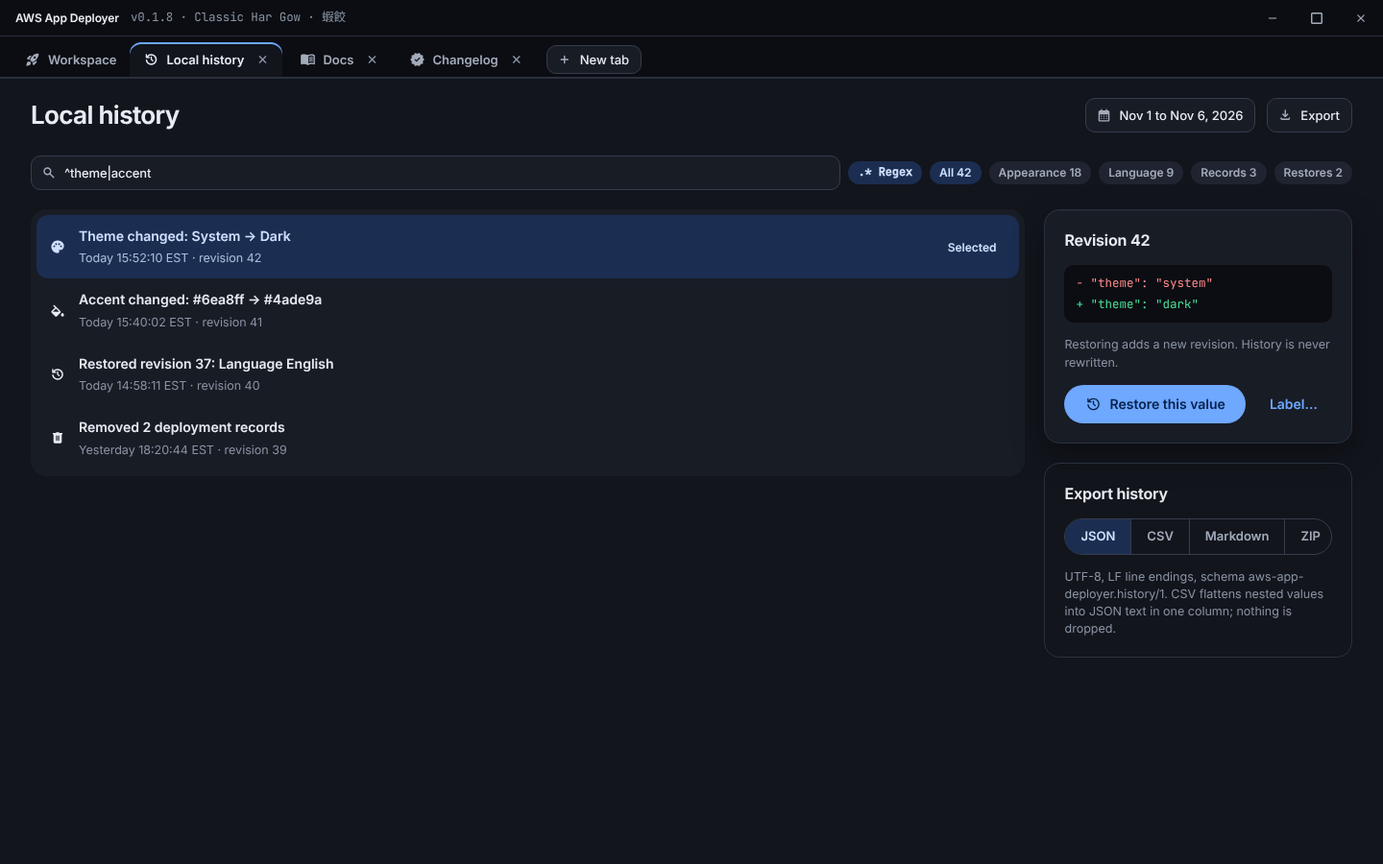
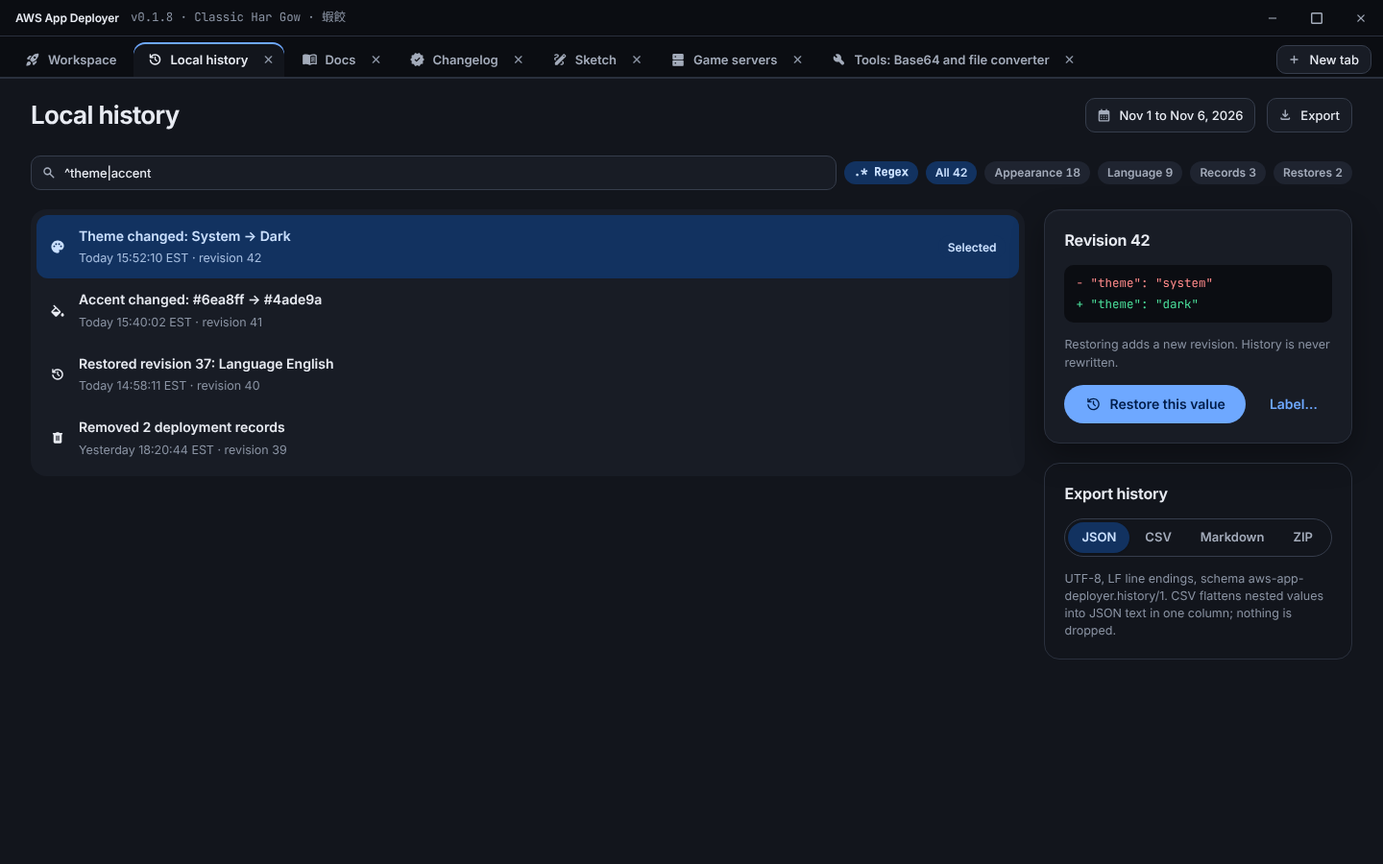
Stop entrance animations replaying on every key press
Every render rebuilds the DOM, and a rebuilt element starts its CSS
animations again, so the command palette faded and slid in again on each
arrow key and letter, and page headings and cards rose again while you
typed in a search box. render() now carries each animation's progress
over to the element in the same place in the new DOM: page content
within the same tab and view, floating layers and window chrome across
views. Opening something or navigating still plays its entrance.

scripts/sweep/motion.cjs (npm run sweep:motion) launches the app and
fails on any replay; with the fix switched off it reports the palette,
the page and the rail pill replaying, and with it on it passes.

Also: the boards for tabs (18) and polish (25) match the app, fresh
interface captures with provenance under docs/evidence/interface are
shown in the readme, and the roadmap, handoff and feature audit record
the sweep result and what is still open.

以前每撳一個掣，成個畫面重新砌過，啲入場動畫就由頭再嚟：搜尋框打一隻
字，指令面板又飄入一次，標題同卡片又升一次。而家重砌之後動畫照住原本
進度行落去，打開或者轉頁先會再播。另外加咗動畫檢查，關咗修正佢會紅，
開返就綠。

Claude-Session: https://claude.ai/code/session_019bdmMGPyKVwNhSr6Siu6GJ

diff --git a/design/artboards/Records.dc.html b/design/artboards/Records.dc.html
@@ -12,23 +12,33 @@
 <link rel="stylesheet" href="https://fonts.googleapis.com/css2?family=Inter:wght@400..700&amp;family=JetBrains+Mono:wght@400;500&amp;family=Material+Symbols+Rounded:opsz,wght,FILL,GRAD@20..48,300..600,0..1,0&amp;display=block">
 <style>
 body{margin:0}
-.tabs{display:flex;align-items:flex-end;gap:4px;padding:6px 12px 0;overflow-x:auto;background:var(--bg);border-bottom:1px solid var(--line)}
-.tab{flex:none;display:flex;align-items:center;gap:8px;height:36px;padding:0 10px 0 14px;border-radius:12px 12px 0 0;color:var(--tx2);font-size:13px;font-weight:600}
+.tabbar{display:flex;align-items:flex-end;background:var(--bg);border-bottom:1px solid var(--line);min-width:0}
+.tabs{display:flex;align-items:flex-end;gap:4px;padding:6px 4px 0 12px;overflow-x:auto;flex:1 1 auto;min-width:0;scrollbar-width:none}
+@media (max-width:720px){.tabs{mask-image:linear-gradient(to left,transparent,#000 32px)}}
+.tab{flex:none;display:flex;align-items:center;gap:2px;height:36px;padding:0 6px 0 0;border-radius:12px 12px 0 0;color:var(--tx2);font-size:13px;font-weight:600}
+.tab .tb{display:flex;align-items:center;gap:8px;height:36px;padding:0 8px 0 14px}
 .tab.on{background:var(--s1);color:var(--tx);box-shadow:inset 0 2px 0 var(--ac)}
 .tab .x{width:22px;height:22px;border-radius:11px;display:grid;place-items:center;color:var(--tx3)}
+.tab-new{flex:none;display:flex;align-items:flex-end;padding:0 12px 3px 6px}
+
 .diff{font-family:"JetBrains Mono",monospace;font-size:12.5px;border-radius:10px;padding:10px 12px;background:var(--bg);display:flex;flex-direction:column;gap:4px}
 .diff .m{color:var(--err)} .diff .p{color:var(--ok)}
 </style>
 </helmet>
 <div class="app {{themeClass}}">
   <div class="titlebar"><span class="name">AWS App Deployer</span><span class="small mono">v0.1.8 · Classic Har Gow · 蝦餃</span><span class="grow"></span><div class="caption"><span><i class="ms">remove</i></span><span><i class="ms">crop_square</i></span><span><i class="ms">close</i></span></div></div>
-  <div class="tabs" role="tablist" aria-label="Open tabs">
-    <span class="tab" role="tab"><i class="ms sm" aria-hidden="true">rocket_launch</i>Workspace</span>
-    <span class="tab on" role="tab" aria-selected="true"><i class="ms sm" aria-hidden="true">history</i>Local history<span class="x"><i class="ms sm" aria-hidden="true">close</i></span></span>
-    <span class="tab" role="tab"><i class="ms sm" aria-hidden="true">menu_book</i>Docs<span class="x"><i class="ms sm" aria-hidden="true">close</i></span></span>
-    <span class="tab" role="tab"><i class="ms sm" aria-hidden="true">new_releases</i>Changelog<span class="x"><i class="ms sm" aria-hidden="true">close</i></span></span>
-    <span class="chip" style="height: 30px; margin: 0 0 3px 6px"><i class="ms sm" aria-hidden="true">add</i>New tab</span>
-  </div>
+  <nav class="tabbar" aria-label="Tabs">
+    <div class="tabs" role="tablist" aria-label="Open tabs">
+      <span class="tab"><span class="tb" role="tab" aria-selected="false"><i class="ms sm" aria-hidden="true">rocket_launch</i>Workspace</span></span>
+      <span class="tab on"><span class="tb" role="tab" aria-selected="true"><i class="ms sm" aria-hidden="true">history</i>Local history</span><span class="x" aria-hidden="true"><i class="ms sm">close</i></span></span>
+      <span class="tab"><span class="tb" role="tab" aria-selected="false"><i class="ms sm" aria-hidden="true">menu_book</i>Docs</span><span class="x" aria-hidden="true"><i class="ms sm">close</i></span></span>
+      <span class="tab"><span class="tb" role="tab" aria-selected="false"><i class="ms sm" aria-hidden="true">new_releases</i>Changelog</span><span class="x" aria-hidden="true"><i class="ms sm">close</i></span></span>
+      <span class="tab"><span class="tb" role="tab" aria-selected="false"><i class="ms sm" aria-hidden="true">draw</i>Sketch</span><span class="x" aria-hidden="true"><i class="ms sm">close</i></span></span>
+      <span class="tab"><span class="tb" role="tab" aria-selected="false"><i class="ms sm" aria-hidden="true">dns</i>Game servers</span><span class="x" aria-hidden="true"><i class="ms sm">close</i></span></span>
+      <span class="tab"><span class="tb" role="tab" aria-selected="false"><i class="ms sm" aria-hidden="true">build</i>Tools: Base64 and file converter</span><span class="x" aria-hidden="true"><i class="ms sm">close</i></span></span>
+    </div>
+    <span class="tab-new"><span class="chip" style="height: 30px"><i class="ms sm" aria-hidden="true">add</i>New tab</span></span>
+  </nav>
   <div class="body">
     <main class="main" style="border-radius: 0; border-left: 0">
       <header class="topbar"><h1 class="rise">Local history</h1><span class="grow"></span><span class="chip"><i class="ms sm" aria-hidden="true">calendar_month</i>Nov 1 to Nov 6, 2026</span><span class="chip"><i class="ms sm" aria-hidden="true">download</i>Export</span></header>

diff --git a/src/renderer/app.js b/src/renderer/app.js
@@ -1322,13 +1322,44 @@
     const walker = document.createTreeWalker(node, NodeFilter.SHOW_TEXT, { acceptNode: n => (n.parentElement.closest('.ms, .mono, input, textarea, script, style') ? NodeFilter.FILTER_REJECT : NodeFilter.FILTER_ACCEPT) });
     for (let n; (n = walker.nextNode());) { const next = Lib.applyVocabulary(n.nodeValue, v); if (next !== n.nodeValue) n.nodeValue = next; }
   }
+  // Every render rebuilds the DOM, and a rebuilt element starts its CSS animations again, so entrance motion
+  // (rise, fade, dialog and panel entrances, log lines, the rail pill) replayed on every key press. Each animation
+  // carries its progress over to the element in the same place in the new DOM. Page content is matched only
+  // within the same tab and view, so navigating still plays the entrance; floating layers and the window chrome
+  // are matched across views. A new element has nothing to match and animates in as usual.
+  const LAYERS = '.overlay, .panel, .drawer, .dimsum, .party, .banner, .titlebar, .tabbar, .rail';
+  function placeOf(el) {
+    const parts = [];
+    for (let n = el; n && n !== root; n = n.parentElement) {
+      let i = 0; for (let s = n.previousElementSibling; s; s = s.previousElementSibling) if (s.tagName === n.tagName) i++;
+      parts.push(n.id ? '#' + n.id : n.dataset?.panel ? '[' + n.dataset.panel + ']' : n.tagName + i + '.' + (n.classList[0] || ''));
+    }
+    return parts.reverse().join('/');
+  }
+  function animKey(a, view) {
+    const el = a.effect?.target; if (!el || !root.contains(el)) return null;
+    return (el.closest(LAYERS) ? 'layer' : view) + '|' + a.animationName + '|' + (a.effect.pseudoElement || '') + '|' + placeOf(el);
+  }
+  const cssAnims = () => (document.getAnimations ? document.getAnimations() : []).filter(a => typeof CSSAnimation !== 'undefined' && a instanceof CSSAnimation);
+  let animView = null;
+  function animSnapshot(view) {
+    const was = animView, m = new Map(); animView = view;
+    for (const a of cssAnims()) { const k = animKey(a, was); if (k && a.currentTime != null) m.set(k, a.currentTime); }
+    return { view, m };
+  }
+  function animRestore({ view, m }) {
+    if (!m.size) return;
+    for (const a of cssAnims()) { const k = animKey(a, view); if (k && m.has(k)) a.currentTime = m.get(k); }
+  }
   function render() {
     if (!S.settings || (browser && !api.authenticated)) return;
     const focusId = document.activeElement?.id, caret = document.activeElement?.selectionStart, tabsLeft = root.querySelector('.tabs')?.scrollLeft || 0;
     const views = { setup: viewSetup, accounts: viewAccounts, deploys: viewDeploys, wizard: viewWizard, run: viewRun, result: viewResult, settings: viewSettings, help: viewHelp, history: viewHistory, changelog: viewChangelog, docs: viewDocs, support: viewSupport, tools: viewTools, servers: viewServers, ai: viewAi, sketch: viewSketch };
     const tab = S.tabs.find(t => t.id === S.active) || S.tabs[0];
     const v = tab.id === 'ws' ? S.view : tab.view;
+    const motion = animSnapshot(tab.id + ':' + v);
     root.innerHTML = shell((views[v] || viewDeploys)(), { rail: v !== 'setup' }) + paletteHtml() + panelHtml() + dimsumHtml() + partyHtml();
+    animRestore(motion);
     Kit.watchPanels(root, (id, box) => { const ui = S.settings.ui || { filtersOpen: {}, panels: {} }; api.setSetting('ui', { ...ui, panels: { ...ui.panels, [id]: box } }).then(r => r.ok && (S.settings.ui = r.value)); });
     if (S.view === 'settings' && S.settingsQuery) { const q = S.settingsQuery.toLowerCase(); root.querySelectorAll('[data-search]').forEach(el => { el.hidden = !el.dataset.search.toLowerCase().includes(q); }); }
     vocabularize(root);

diff --git a/design/artboards/Polish.dc.html b/design/artboards/Polish.dc.html
@@ -64,7 +64,7 @@ body{margin:0}
             <div class="demo-toast"><i class="ms sm fill">check_circle</i><span style="flex: 1">Sorted! Settings saved.</span></div>
           </div>
           <div class="side">
-            <div class="stack" style="gap: 8px"><span class="label">RIGHT-CLICK MENU WITH LIVE CONTROLS</span>
+            <div class="stack" style="gap: 8px"><span class="label">RIGHT-CLICK MENU WITH LIVE CONTROLS</span><span class="small">One highlighted row: the pointer moves it, the arrow keys move it, so hover never marks a second row.</span>
               <div class="ctx demo-menu" role="dialog" aria-label="Actions for Theme">
                 <div class="row ctx-f"><i class="ms sm" aria-hidden="true">filter_list</i><input class="mono" role="combobox" aria-expanded="true" aria-controls="demo-list" aria-activedescendant="demo-o0" placeholder="Filter" aria-label="Filter actions"><span class="badge mute mono">.*</span></div>
                 <div class="divider"></div>

diff --git a/docs/FEATURE-AUDIT.md b/docs/FEATURE-AUDIT.md
@@ -45,7 +45,7 @@ Evidence namespaces: **Baseline** means the original commit; **Desktop delta** m
 | `rich-controls` | Partial | App/site | Settings have controls, but palette results and other values lack shared rich-control bindings and coverage inventory. |
 | `guided-forms` | Partial | App/site | Baseline deployment wizard plus Interaction delta settings explanations/practice steps exist. Every-element contextual wizard, shared direct-action validation, control complexity inventory and textbox clear controls remain incomplete. |
 | `extension-support` | Missing | App | Added to the shared feature list on 2026-11-06: extension points tailored to deploying (targets and checks), a versioned manifest per extension folder, an out-of-process protocol, declared permissions with consent on first use and on change, run and answer limits, a manager, built-in defaults, an author article with samples, and proof. None of it exists yet. |
-| `every-surface-sweep` | Partial | App/site | scripts/sweep runs axe-core WCAG 2.2 AA and best-practice rules, console and blocked-content checks, clipped, off-screen and overlapping text, and a keyboard walk over every capture route of the app and every overlay of the landing page, at phone, tablet, 960 x 540 and desktop sizes, in both themes and all three languages. Not yet wired as a release check in the Windows workflow; results and the before and after score are in design/REHEARSAL.md. |
+| `every-surface-sweep` | Partial | App/site | scripts/sweep runs axe-core WCAG 2.2 AA and best-practice rules, console and blocked-content checks, clipped, off-screen and overlapping text, and a keyboard walk over every capture route of the app and every overlay of the landing page, at phone, tablet, 960 x 540 and desktop sizes, in both themes and all three languages. Run before each interface release; on 2026-11-06 it went from 13863 findings on v0.1.23 to zero (app 672 of 672 surfaces clean, landing page 138 of 138), with the score on design board 26 and in design/REHEARSAL.md. Missing: the browser companion's access screen is not in the script (checked by hand: clean apart from one browser log line for the expected 401 before sign-in), and the release workflow does not run the sweep. |
 | `windows-title-bar` | Partial | App | The frameless window now uses the platform title-bar overlay, so Windows draws its own caption buttons and Snap layouts work; overlay colours follow the theme through a validated IPC call; the bar is a drag region with clickable parts opted out. Not yet checked on a real Windows desktop (release captures do not include native caption buttons). |
 | `info-icon-guidance` | Partial | App/site | Every settings control now has its info button directly above it in one slot, with a 44 px touch target, a hover and focus tooltip, focus return to the exact button, Lib.EXPLAIN text and a practice step (pitch added). Missing: info buttons outside Settings (wizard, tools, servers, AI, sketch), the landing page's controls, Cantonese guidance text, worked examples with a playground per control, and direct/wizard parity proof. |
 | `settings-explanations` | Partial | App/site | Interaction delta: store exposes defaults/sources; info panels state file/default provenance, with SETTINGS_ON_SCREEN/EXPLAIN coverage tests. Every settings element, actual defaults after reset/reload and localized built acceptance remain incomplete. |

diff --git a/ROADMAP.md b/ROADMAP.md
@@ -35,6 +35,9 @@ Honest inventory of the desktop app and its landing page. **Shipped** means impl
 - [x] Shipped: a context menu on every element (right-click, Shift+F10 or the menu key) with a filter field, its own regex builder with token explanations, target-specific actions, and shortcuts shown from the same registry that binds them
 - [x] Shipped: live controls inside context menus: switches, choices, a text size stepper and an accent swatch change the real setting in place; arrow keys, Home, End, Space and Enter work inside the menu; a control that cannot be used says why (for example Language while School mode is on)
 - [x] Shipped: one polish system shared by the app, the landing page and the design boards: focus ring token, theme-aware form controls and scrollbars, a visible chevron on every select, styled list boxes, pill segmented controls, settings rows with the info button directly above every control in one slot (44 px touch target, tooltip on hover and focus), accent shades derived per theme so text buttons and links stay readable, empty states with numbered next steps that fill their pane, panels kept inside narrow windows with their actions always in view, a tab strip whose New tab stays pinned, and page changes that cross-fade unless reduce motion, calm mode or Windows' own setting asks otherwise
+- [x] Shipped: every-surface sweep before each interface release (`npm run sweep:app`, `npm run sweep:site`): every app screen, panel and menu and every landing page overlay at phone, tablet, 960 x 540 and desktop sizes, in both themes and all three languages, checked with axe-core WCAG 2.2 AA and best practice, clipped, off-screen and overlapping text, console errors and blocked requests, and a keyboard walk; it went from 13863 findings on v0.1.23 to zero, and fixes land in the shared token or component
+- [x] Shipped: one highlighted row in every menu and command palette (the pointer moves it, so hover never marks a second row), and a tab strip whose edges fade where more tabs are hidden
+- [ ] The browser companion's access screen joins the sweep script (checked by hand on 2026-11-06: clean except one browser log line for the expected 401 answer before sign-in)
 - [x] Shipped: two-key super confirmation for destructive actions: both keys (click or R and M), then a full-range slider, Emergency exit and Escape, focus returned
 - [x] Shipped: accessibility tools in the title bar: text size, high contrast, reduce motion, always-visible focus, larger targets, keyboard help (F1), read the screen aloud, a confirmed hide action with Cancel focused, and reset; reachable from Settings search and the palette when hidden
 - [x] Shipped: an info button above every setting control with what it does, where the value came from (your settings file or the named built-in default), guided steps and a practice control that never changes the real setting; a test fails if a setting has no explanation

diff --git a/HANDOFF.md b/HANDOFF.md
@@ -101,7 +101,9 @@ Real AWS sign-in and deployment require a user-connected AWS profile and access 
 - Desktop integration now exists: `src/main/` exposes the backend through a named preload bridge with operation IDs and scoped events, adds a one-click Windows dependency installer and a local settings store, and `src/renderer/` implements the designed screens. Every push to `main` builds a Windows installer, captures source-launched Electron screenshots on a Windows runner, and publishes a tagged release. See `ROADMAP.md` for the exact shipped, partial and not-started list.
 - Full multi-service Compose support, comprehensive automatic repair, cloud update pipelines, code signing, and live AWS evidence remain unfinished. The installer has been tested with stand-in commands, not yet on a clean Windows machine.
 - 2026-11-06 interface pass: one polish system shared by the app, the landing page and the design boards (design/REHEARSAL.md records the review). Context menus and the landing page palette are a filter box driving a list of options, with values drawn inside options rather than nested controls. The window uses the platform title-bar overlay so Windows draws its own caption buttons and Snap layouts work. Text size zoom no longer pushes the window or panels past the screen. The minimum window height is now 480 so a 1080p screen at 200 percent (960 x 540) fits.
-- Before every interface release run the every-surface sweep (`npm run sweep:app`, `npm run sweep:site`; see the readme). It is run locally, not in the release workflow. Extension support (a new shared requirement) is not started; see the feature audit.
+- Before every interface release run the every-surface sweep (`npm run sweep:app`, `npm run sweep:site`; see the readme). It is run locally, not in the release workflow. On 2026-11-06 it went from 13863 findings on v0.1.23 to zero; design board 26 and design/REHEARSAL.md hold the score. Extension support (a new shared requirement) is not started; see the feature audit.
+- Menus and both command palettes keep one highlighted row: the pointer moves it, and lists of options have no separate hover layer. The tab strip fades its edges where more tabs are hidden. Current captures and their provenance are in docs/evidence/interface.
+- Not yet covered by the sweep script: the browser companion's access screen (checked by hand, clean apart from the browser's log line for the expected 401 before sign-in). Not yet seen on a real Windows desktop: the system-drawn caption buttons and Snap layouts.
 
 
 ### Deployment implementation constraints

diff --git a/docs/evidence/interface/README.md b/docs/evidence/interface/README.md
@@ -1,0 +1,25 @@
+# Interface captures, 2026-11-06
+
+Current captures of the desktop app and the landing page after the final polish pass and the every-surface sweep. They show sample data only: no AWS account is connected and no deployment exists.
+
+## How they were taken
+
+- App: the app's own capture mode (`electron . --screenshots=<dir>`), Electron 45.2.3, run from source on Linux under a virtual display (`xvfb-run`), at a 1320 x 860 window for desktop frames and 420 x 860 for narrow frames, scale 1, light theme (the capture machine has no theme preference, so System resolves to light). The capture mode uses a fresh profile, so no saved settings leak in.
+- Landing page: `site/` served locally and opened in headless Chromium through Playwright 1.63.0, at 1440 x 900 and 390 x 844, with the dark colour scheme.
+- Source: commit `df615f4`. The app and landing page sources (`src/`, `site/`) did not change between that commit and the commit that adds these files.
+- Linux draws no Windows caption buttons, so the right end of the app's title bar is empty in these frames. On Windows the system draws minimise, maximise and close there, with Snap layouts. Release builds are captured on a Windows runner by the release workflow.
+
+## Files
+
+| File | Shows | Size | SHA-256 |
+| --- | --- | --- | --- |
[6 lines of base64/hex data omitted]
+
+## Privacy
+
+Every frame was looked at before it was added. None shows an account, a credential, a file path from the capture machine, or personal data. Captures that show the app data folder path (Support Tickets, the unlock panel) were left out.

diff --git a/docs/features/context-menus.md b/docs/features/context-menus.md
@@ -8,6 +8,7 @@ Menu rows that stand for a value show the working control right beside the label
 
 - Right-click a setting to get its own control first. Every menu also ends with quick controls for the theme, text size, reduce motion and action sounds.
 - Keyboard: focus stays in the filter while Up and Down move the highlighted row. Enter runs a command or flips a switch, Space does the same while the filter is empty, Left and Right change a choice or a stepper, Home and End jump to the first and last rows, Tab moves between the filter and the regex switch, and Escape clears the filter, then closes the menu and returns focus. Typing goes into the filter.
+- Pointer: moving the pointer over a row moves the one highlight there, so the row you point at is the row Enter runs. There is never a second, hover-only highlight. A touch does not move it.
 - Screen readers hear a filter box that controls a list of options, and each option's name carries its value, for example "Theme: Dark" or "Action sounds, checked". The switches, segments and steppers drawn inside an option are pictures of the control, not separate buttons, so nothing interactive is nested inside an option. Clicking a picture still changes the value.
 - The filter and regex builder find control rows by their labels. A value that cannot change from where you opened the menu stays visible but disabled, with the reason, for example the language while School mode is on.
 - The landing page uses the same menu, with controls for its theme, language, text size, reduce motion and accent colour.

diff --git a/README.md b/README.md
@@ -6,6 +6,15 @@ Connect an AWS IAM Identity Center profile through browser sign-in, choose a Doc
 
 Landing page: https://ding-ding-projects.github.io/aws-app-deployer/ (source in [`site/`](site/)). Design: [`design/`](design/).
 
+## Screens
+
+| | |
+| --- | --- |
+| ![Deployments with no deployments yet, and the three steps to the first one](docs/evidence/interface/deployments-desktop.png) | ![Settings with the right-click menu open: theme, text size and switches change in place](docs/evidence/interface/settings-menu-desktop.png) |
+| ![Command palette searching for "dep"](docs/evidence/interface/command-palette-desktop.png) | ![Landing page hero in the dark theme](docs/evidence/interface/landing-desktop-dark.png) |
+
+Captured on 2026-11-06 from source with sample data; no AWS account is connected. How they were taken, sizes and hashes: [docs/evidence/interface](docs/evidence/interface/README.md). Release builds are captured on Windows by the release workflow.
+
 ## Status
 
 Early development. Every push to `main` runs the tests, builds a Windows installer, captures screenshots of that build on a Windows runner, and publishes a tagged release. Releases have passed automated tests only; no release has been verified against a live AWS account yet. See [ROADMAP.md](ROADMAP.md) for what is shipped, partial and not started.

diff --git a/docs/features/tabs.md b/docs/features/tabs.md
@@ -2,4 +2,4 @@
 
 The Workspace tab holds the main screens. Ordinary navigation never opens tabs. Press **New tab** to open a utility tab from the catalog: local history, docs, changelog, settings, help or accounts. Search the catalog with or without regex. Right-click a tab to close it or close the others.
 
-When many tabs are open, **New tab** stays pinned at the right end of the strip, long tab names shorten with an ellipsis (hover for the full name), and the mouse wheel scrolls the strip sideways. The active tab is kept in view. While a utility tab is active the navigation rail marks nothing; pressing a rail item returns to the Workspace tab.
+When many tabs are open, **New tab** stays pinned at the right end of the strip, long tab names shorten with an ellipsis (hover for the full name), and the mouse wheel scrolls the strip sideways. The strip has no scrollbar, so an edge fades out when more tabs are hidden that way. The active tab is kept in view, clear of the fade. While a utility tab is active the navigation rail marks nothing; pressing a rail item returns to the Workspace tab.

diff --git a/docs/features/command-palette.md b/docs/features/command-palette.md
@@ -1,3 +1,3 @@
 # Command palette
 
-Press `Ctrl+Shift+F` anywhere. Type to search every destination and command. Turn on **Regex** to use a regular expression; each token is explained as you type and invalid patterns are named. Arrow keys move, Enter runs, Escape closes.
+Press `Ctrl+Shift+F` anywhere. Type to search every destination and command. Turn on **Regex** to use a regular expression; each token is explained as you type and invalid patterns are named. Arrow keys move, Enter runs, Escape closes. Pointing at a row moves the one highlight there, so only one row is ever marked. While the palette is open, Tab stays inside it.
